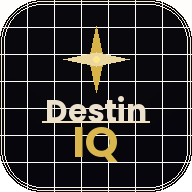
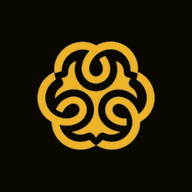
Des

diff --git a/app/layout.tsx b/app/layout.tsx
@@ -5,6 +5,15 @@ export const metadata: Metadata = {
   title: "DestinIQ — Personal Intelligence Platform",
   description: "AI-powered personal intelligence. Know your strengths, blind spots and next move.",
   metadataBase: new URL("https://destiniq.app"),
+  icons: {
+    icon: [
+      { url: "/favicon.ico", sizes: "any" },
+      { url: "/icon-192.png", sizes: "192x192", type: "image/png" },
+      { url: "/icon-512.png", sizes: "512x512", type: "image/png" },
+    ],
+    apple: "/apple-touch-icon.png",
+  },
+  manifest: "/manifest.json",
   openGraph: {
     title: "DestinIQ — Personal Intelligence Platform",
     description: "AI that knows your next move before you do.",
@@ -35,11 +44,6 @@ export default function RootLayout({
 }) {
   return (
     <html lang="en">
-      <head>
-        <meta name="viewport" content="width=device-width, initial-scale=1, maximum-scale=5" />
-        <meta name="theme-color" content="#f0b429" />
-        <link rel="manifest" href="/manifest.json" />
-      </head>
       <body>{children}</body>
     </html>
   );

diff --git a/app/page.jsx b/app/page.jsx
@@ -6431,9 +6431,10 @@ function Landing({onStart,ipLocation}){
         borderBottom:scrolled?"1px solid rgba(240,180,41,0.1)":"1px solid transparent",
         padding:"14px 24px",display:"flex",justifyContent:"space-between",alignItems:"center",
         transition:"all 0.3s ease",maxWidth:"100%",boxSizing:"border-box"}}>
-        <div style={{fontWeight:800,fontSize:20,color:G.cream,cursor:"pointer",letterSpacing:"-.3px"}}
+        <div style={{fontWeight:800,fontSize:20,color:G.cream,cursor:"pointer",letterSpacing:"-.3px",display:"flex",alignItems:"center",gap:8}}
           onClick={()=>window.scrollTo({top:0,behavior:"smooth"})}>
-          Destin<span style={{color:G.gold}}>IQ</span>
+          <img src="/mark-gold-transparent.png" alt="" style={{height:24,width:"auto"}} onError={e=>{e.currentTarget.style.display="none";}}/>
+          <span>Destin<span style={{color:G.gold}}>IQ</span></span>
         </div>
         <div style={{display:"flex",alignItems:"center",gap:10}}>
           <button onClick={onStart}
@@ -13109,7 +13110,7 @@ function SidebarNav({nav,setNav,isPaid,isPremium,isProMax,streak,onUnlock,formDa
   return(
     <nav className="sidebar">
       <div className="sidebar-logo">
-        <div className="logo" style={{fontSize:18}}>Destin<b>IQ</b></div>
+        <div className="logo" style={{fontSize:18,display:"flex",alignItems:"center",gap:8}}><img src="/mark-gold-transparent.png" alt="" style={{height:22,width:"auto"}} onError={e=>{e.currentTarget.style.display="none";}}/><span>Destin<b>IQ</b></span></div>
         {isPaid&&<div style={{fontSize:10,fontFamily:"var(--f-mono)",color:isProMax?"#9b72cf":"var(--gold)",marginTop:3}}>
           {isProMax?"✦ PRO MAX":"◆ PRO"}
         </div>}
@@ -13249,8 +13250,9 @@ function MobileTopBar({title,onBack,streak,isPaid,isProMax,onNotif,setNav,navPho
       <div style={{flex:1,textAlign:"center"}}>
         {title
           ? <span style={{fontSize:14,fontWeight:600,color:G.cream}}>{title}</span>
-          : <span style={{fontSize:17,fontWeight:900,color:G.cream,letterSpacing:"-.3px"}}>
-              Destin<span style={{color:G.gold}}>IQ</span>
+          : <span style={{fontSize:17,fontWeight:900,color:G.cream,letterSpacing:"-.3px",display:"inline-flex",alignItems:"center",gap:7}}>
+              <img src="/mark-gold-transparent.png" alt="" style={{height:20,width:"auto"}} onError={e=>{e.currentTarget.style.display="none";}}/>
+              <span>Destin<span style={{color:G.gold}}>IQ</span></span>
             </span>
         }
       </div>